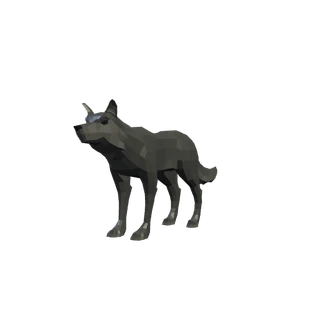
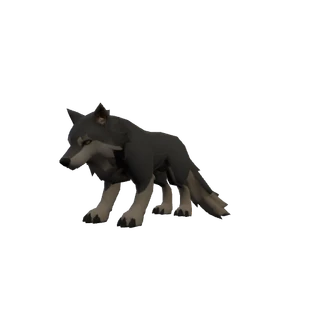
feat(render): swap wolves and druid/shaman wolf forms onto custom baked models
Replace the old Quaternius wolf.glb for the pack wolf, Old Greyjaw, and the
druid Wolf Form / shaman Shadewolf with custom Tripo wolf meshes auto-rigged
onto the Dog_Animation quadruped skeleton (closest-point weight transfer, donor
clips renamed to the animal() clip names at bake time), each shipping a
compressed WebP basecolor texture.

- mob_wolf and Old Greyjaw (greyjaw.glb, larger at height 2.2) use the baked
  models; the pack wolf keeps the light entity tint so it still doubles as the
  beast-family fallback and each beast keeps its own colour.
- form_cat (druid Wolf Form and shaman Shadewolf, which renders it with the
  ghost material on top) now uses wolf_basic.glb via a new shared WOLF_BAKED
  clip map that adds the baked rig's Sit and Fall clips plus a paddling swim
  base, so the player forms sit, jump, and swim correctly.
- Corrected the auto-rigged skin weights that deformed in extreme poses: leg
  chain containment (haunch ballooning), a distal radial cap (paw fur droop),
  and a crotch-web demote-to-thigh plus a region gradient smooth (the back-leg
  tear on jump).

The hunter pet wolf needs no change: a tamed beast is a mob whose family routes
through FAMILY_KEYS.beast to mob_wolf, so it inherits the new model.

Regenerated the media manifest, wiki content, and guide stills. Added a
visual_manifest guard test that machine-checks every wolf clip name resolves in
its GLB. In-game names are unchanged (Old Greyjaw, Forest Wolf).

Changed region(s): [[0.1875, 0.3125, 0.7188, 0.75]]

diff --git a/src/render/characters/manifest.ts b/src/render/characters/manifest.ts
@@ -157,6 +157,17 @@ const animal = (attack: string[]): ClipMap => ({
   death: 'Death',
 });
 
+// Custom baked wolf rig (wolf_basic/greyjaw, Dog_Animation donor skeleton): the
+// animal() core plus the donor's Sit/Fall clips so player wolf forms sit and
+// jump properly, and a Walk swim base (a paddling gait at the gentle clip
+// pitch beats the steep no-clip procedural prone on a quadruped).
+const WOLF_BAKED: ClipMap = {
+  ...animal(['Attack']),
+  sitIdle: 'Sit',
+  swim: 'Walk',
+  jump: 'Fall',
+};
+
 // Custom wild boar rig (wild_boar.glb)
 const WILD_BOAR: ClipMap = {
   idle: 'Idle1',
@@ -511,10 +522,13 @@ export const VISUALS: Record<string, VisualDef> = {
     tint: 0x5a4030,
     tintStrength: 0.55,
   },
+  // Druid Wolf Form AND shaman Shadewolf (ghost_wolf renders this visual with
+  // the ghost material on top). Same custom baked wolf as the world wolves;
+  // the tawny tint keeps the druid form readable against grey pack wolves.
   form_cat: {
-    url: `${CREATURES}/wolf.glb`,
+    url: `${CREATURES}/wolf_basic.glb`,
     height: 1.6,
-    clips: animal(['Attack']),
+    clips: WOLF_BAKED,
     tint: 0xd08b45,
     tintStrength: 0.35,
   },
@@ -528,11 +542,24 @@ export const VISUALS: Record<string, VisualDef> = {
 
   // -- mob families --------------------------------------------------------
   mob_wolf: {
-    url: `${CREATURES}/wolf.glb`,
+    // Custom Tripo wolf auto-rigged onto the Dog_Animation quadruped skeleton
+    // (same pipeline as greyjaw), clips renamed to the animal() names at bake
+    // time. Baked basecolor texture; keeps a light entity tint so this doubles
+    // as the beast-family fallback and each beast keeps its own colour.
+    url: `${CREATURES}/wolf_basic.glb`,
     height: 1.6,
-    clips: animal(['Attack']),
+    clips: WOLF_BAKED,
     tint: 'entity',
     tintStrength: 0.35,
+  },
+  greyjaw: {
+    // Custom Tripo wolf auto-rigged onto the Dog_Animation quadruped skeleton;
+    // clips renamed to the animal() names at bake time. Baked texture, no tint.
+    // Old Greyjaw's model: 2.2 at scale 1 (his template scale 1.25 makes the
+    // rare ~2.75 in-world vs the 1.6 pack wolf).
+    url: `${CREATURES}/greyjaw.glb`,
+    height: 2.2,
+    clips: WOLF_BAKED,
   },
   mob_boar: {
     url: `${CREATURES}/wild_boar.glb`,
@@ -959,6 +986,9 @@ const MOB_KEYS: Record<string, string> = {
   // beasts that would otherwise fall back to the wolf model (FAMILY_KEYS.beast)
   old_cragmaw: 'mob_bear',
   bog_bloat: 'mob_murloc',
+  // Old Greyjaw: the named rare wolf gets his own custom model (the pack
+  // wolves keep the light mob_wolf)
+  old_greyjaw: 'greyjaw',
   // The Drowned Litany (Mirefen Marsh): give marsh enemies the right silhouette
   // instead of the family fallback (beast -> wolf, undead -> skeleton minion).
   mirefen_widowling: 'mob_spider',

diff --git a/tests/visual_manifest.test.ts b/tests/visual_manifest.test.ts
@@ -69,6 +69,21 @@ describe('character visual manifest', () => {
     ).toEqual([]);
   });
 
+  it('points the baked wolf visuals (form_cat, mob_wolf, greyjaw) at clips in their GLBs', async () => {
+    const byUrl = new Map<string, Set<string>>();
+    for (const key of ['form_cat', 'mob_wolf', 'greyjaw'] as const) {
+      const visual = VISUALS[key];
+      const animationNames =
+        byUrl.get(visual.url) ?? (await glbAnimationNames(`public/${visual.url}`));
+      byUrl.set(visual.url, animationNames);
+
+      expect(animationNames.size).toBeGreaterThan(0);
+      expect(
+        [...new Set(expectedClipNames(visual.clips))].filter((name) => !animationNames.has(name)),
+      ).toEqual([]);
+    }
+  });
+
   it('keeps held weapons and props available on low graphics', () => {
     const allWeaponUrls = manifestUrls().filter((url) => url.startsWith('models/weapons/'));
     expect(allWeaponUrls.length).toBeGreaterThan(0);

diff --git a/src/guide/content.generated.ts b/src/guide/content.generated.ts
@@ -1411,9 +1411,8 @@ export const GUIDE_FAMILIES: GuideFamily[] = [
         "max": 4,
         "rare": true,
         "templateId": "old_greyjaw",
-        "model": "mob_wolf",
-        "tint": "#566061",
-        "still": "/guide-stills/mob_wolf__566061.webp"
+        "model": "greyjaw",
+        "still": "/guide-stills/greyjaw.webp"
       },
       {
         "name": "Mire Prowler",
@@ -1918,10 +1917,15 @@ export const GUIDE_MODELS: Record<string, GuideModelSpec> = {
     "tintStrength": 0.35
   },
   "mob_wolf": {
-    "url": "models/creatures/wolf.glb",
+    "url": "models/creatures/wolf_basic.glb",
     "idle": "Idle",
     "height": 1.6,
     "tintStrength": 0.35
+  },
+  "greyjaw": {
+    "url": "models/creatures/greyjaw.glb",
+    "idle": "Idle",
+    "height": 2.2
   },
   "mob_boar": {
     "url": "models/creatures/wild_boar.glb",

diff --git a/src/render/assets/manifest.generated.ts b/src/render/assets/manifest.generated.ts
@@ -182,6 +182,7 @@ export const MEDIA_ASSETS: Record<string, string> =
   "models/creatures/glubevolved.glb": "/media/models/creatures/glubevolved.abc8396f38bf.glb",
   "models/creatures/goblin.glb": "/media/models/creatures/goblin.2f02ce927a88.glb",
   "models/creatures/golelingevolved.glb": "/media/models/creatures/golelingevolved.156f4c2dcf93.glb",
+  "models/creatures/greyjaw.glb": "/media/models/creatures/greyjaw.99fd4f174bf5.glb",
   "models/creatures/orc.glb": "/media/models/creatures/orc.6c59f0f4a163.glb",
   "models/creatures/orcenemy.glb": "/media/models/creatures/orcenemy.49c2f413407e.glb",
   "models/creatures/spider.glb": "/media/models/creatures/spider.5becf8b6510f.glb",
@@ -193,6 +194,7 @@ export const MEDIA_ASSETS: Record<string, string> =
   "models/creatures/velociraptor.glb": "/media/models/creatures/velociraptor.3385fbba757a.glb",
   "models/creatures/wild_boar.glb": "/media/models/creatures/wild_boar.d47c367f4630.glb",
   "models/creatures/wolf.glb": "/media/models/creatures/wolf.9ae2ad8b2ab2.glb",
+  "models/creatures/wolf_basic.glb": "/media/models/creatures/wolf_basic.655da121afa8.glb",
   "models/creatures/yeti.glb": "/media/models/creatures/yeti.acbf79f899d2.glb",
   "models/creatures/yetialt.glb": "/media/models/creatures/yetialt.6c14f370c2af.glb",
   "models/dungeon/arch.glb": "/media/models/dungeon/arch.08f03de13bde.glb",